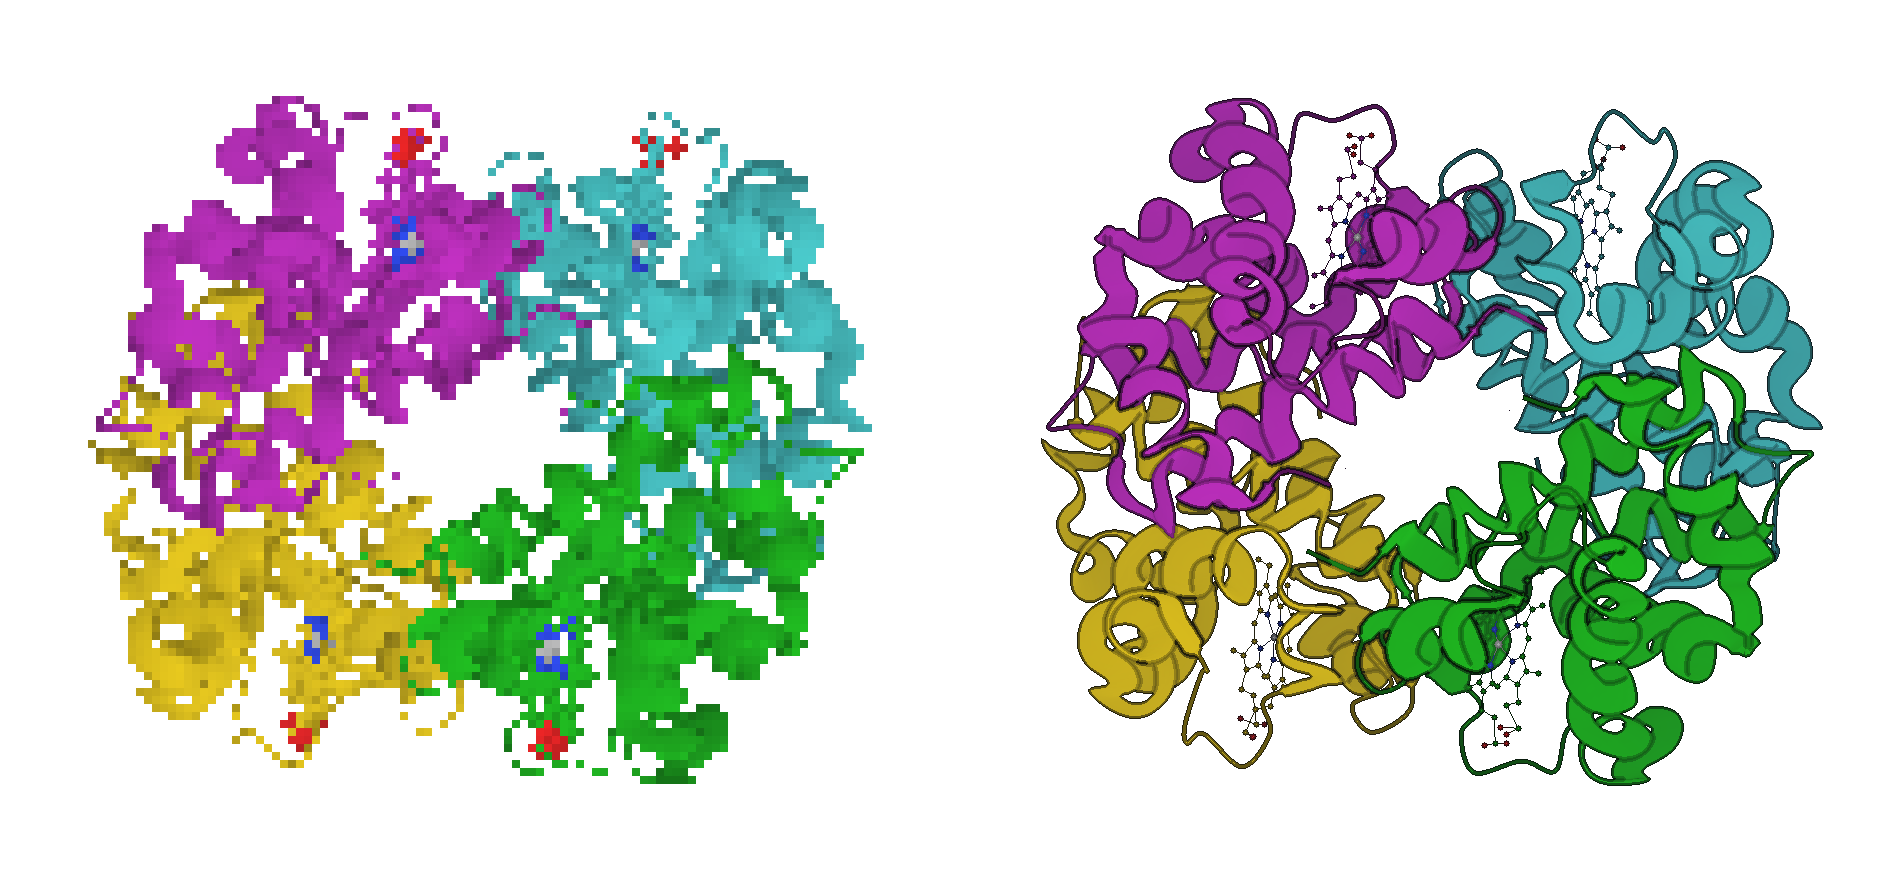
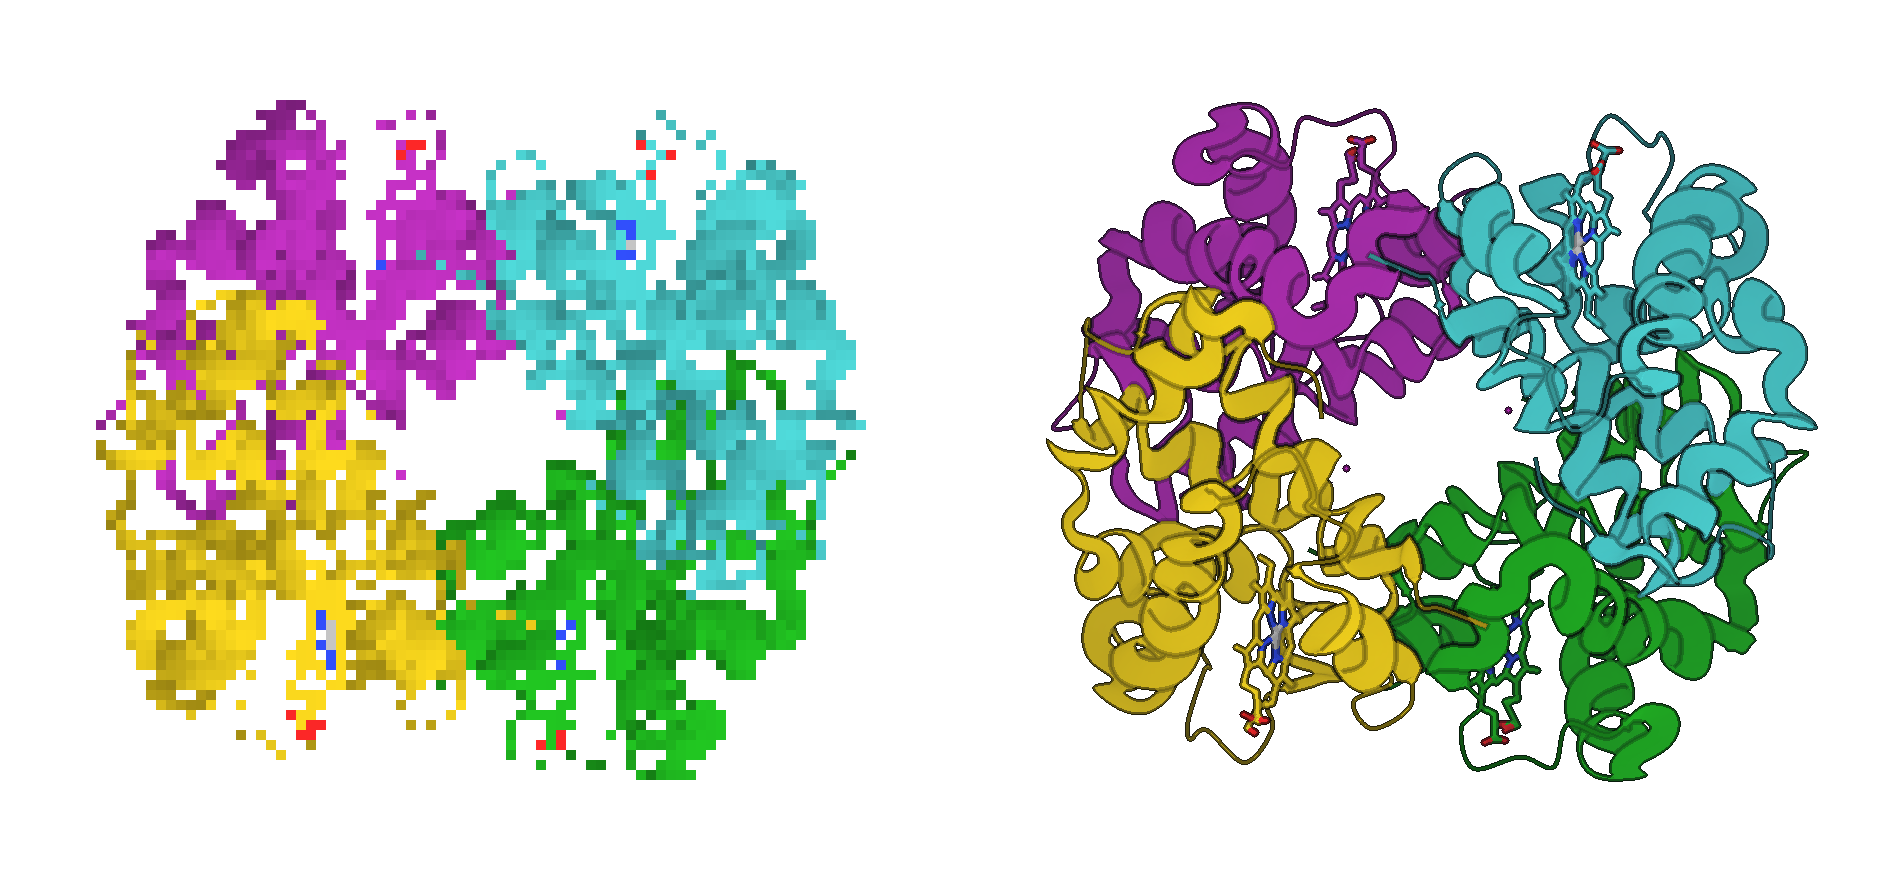
Drop orient spin/views from README; re-render m_key_demo
Remove the Animation showcase (orient_spin.gif) section and the orient_views.png figure from the README — the `:orient view` feature text stays. Delete both now-unreferenced assets. Regenerate m_key_demo with the corrected (non-mirrored) depth: same 4HHB scene at low resolution for the Braille half and full resolution for the pixel half.

Changed region(s): [[0.031, 0.092, 0.4648, 0.8898], [0.5268, 0.092, 0.9606, 0.8898]]

diff --git a/README.md b/README.md
@@ -30,14 +30,6 @@ MolTerm renders 3D molecular structures directly in the terminal. It targets str
       Right: native pixel protocol (Sixel / Kitty / iTerm2) — toggled with one keypress (<code>m</code>).</em>
 </p>
 
-### Animation showcase
-
-<p align="center">
-  <img src="assets/orient_spin.gif" alt="1crn rotating via :orient view" width="520">
-  <br>
-  <em>Every frame is a separate <code>:orient view</code> call — no rotate command, just a sweep of the view vector through the PCA frame.</em>
-</p>
-
 ### Representation gallery
 
 Each protein-rendering mode on `1ubq` (76-residue ubiquitin), 800×800 @
@@ -155,10 +147,6 @@ default to the live viewport (small under no-TTY) and are clamped to
 <vx> <vy> <vz>` then chooses *which direction in that PCA frame the
 camera looks from*. Default is `0 0 1`: down the shortest axis, so the
 flattest face of the molecule fills the screen.
-
-<p align="center">
-  <img src="assets/orient_views.png" alt="Four :orient view directions on 1crn" width="640">
-</p>
 
 The vectors are interpreted in the PCA basis, so the same view spec
 gives a comparable framing across structures of different sizes and